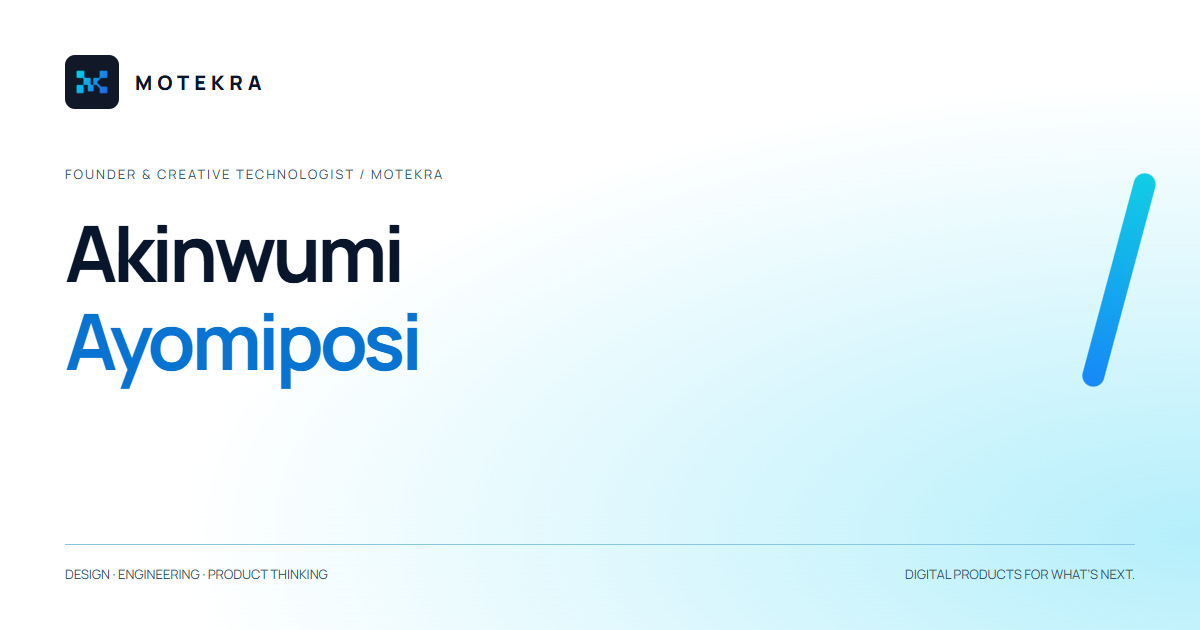
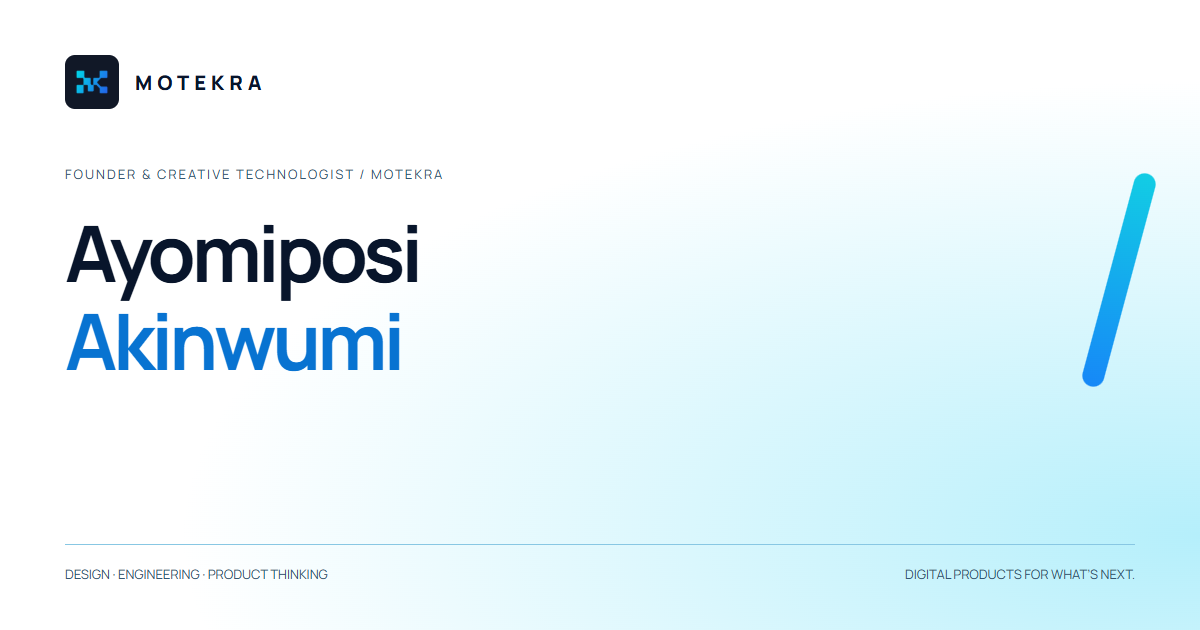
fix(identity): correct founder professional name to Ayomiposi Akinwumi
- Update founder name in team definition, profile content, portrait alt, and about metadata
- Standardize about page founder CTA to Meet Ayomiposi matching first-name usage
- Regenerate social sharing card public/assets/social/founder.png with Ayomiposi Akinwumi
- Update Schema.org Person and ProfilePage structured data expectations
- Update unit and smoke test suites asserting Ayomiposi Akinwumi

Changed region(s): [[0.0925, 0.3619, 0.37, 0.6333]]

diff --git a/tests/smoke/about.spec.ts b/tests/smoke/about.spec.ts
@@ -3,8 +3,8 @@ import AxeBuilder from "@axe-core/playwright";
 import { mkdir, writeFile } from "node:fs/promises";
 const dir=process.env.EVIDENCE_DIR ?? "docs/evidence/phase-06", founder="/team/akinwumi-ayomiposi";
 test.beforeAll(async()=>{await mkdir(dir,{recursive:true});});
-test("server HTML preserves content, pending portrait and publication boundaries",async({request})=>{for(const route of ["/about",founder]) { const response=await request.get(route);expect(response.status()).toBe(200);const html=await response.text();await writeFile(`${dir}/${route==="/about" ? "about":"founder"}-server.html`,html);expect(html).toContain("Akinwumi Ayomiposi");expect(html).toContain("awaiting confirmation");expect(html).not.toContain('src="/images/founder/ayomiposi.webp"');expect(html).not.toContain('href="/work/spotlight-contest"');expect(html).not.toContain('"@type":"Person"');expect(html).not.toContain("akinwumi-ayomiposi.jpeg");}expect((await request.get('/images/founder/ayomiposi.webp')).status()).toBe(404);expect((await request.get('/assets/team/akinwumi-ayomiposi.jpeg')).status()).toBe(404);expect((await request.get('/team/unknown')).status()).toBe(404);});
+test("server HTML preserves content, pending portrait and publication boundaries",async({request})=>{for(const route of ["/about",founder]) { const response=await request.get(route);expect(response.status()).toBe(200);const html=await response.text();await writeFile(`${dir}/${route==="/about" ? "about":"founder"}-server.html`,html);expect(html).toContain("Ayomiposi Akinwumi");expect(html).toContain("awaiting confirmation");expect(html).not.toContain('src="/images/founder/ayomiposi.webp"');expect(html).not.toContain('href="/work/spotlight-contest"');expect(html).not.toContain('"@type":"Person"');expect(html).not.toContain("akinwumi-ayomiposi.jpeg");}expect((await request.get('/images/founder/ayomiposi.webp')).status()).toBe(404);expect((await request.get('/assets/team/akinwumi-ayomiposi.jpeg')).status()).toBe(404);expect((await request.get('/team/unknown')).status()).toBe(404);});
 test("responsive editorial content and zero automated accessibility violations",async({page})=>{await page.emulateMedia({reducedMotion:'reduce'});for(const route of ['/about',founder]) for(const width of [1440,1024,768,390,320]) {await page.setViewportSize({width,height:960});await page.goto(route);await expect(page.locator('h1')).toHaveCount(1);expect(await page.evaluate(()=>document.documentElement.scrollWidth<=innerWidth)).toBe(true);await page.screenshot({path:`${dir}/${route==='/about'?'about':'founder'}-${width}.png`,fullPage:true});if([1440,390].includes(width)){const result=await new AxeBuilder({page}).withTags(['wcag2a','wcag2aa','wcag21a','wcag21aa','wcag22aa']).analyze();await writeFile(`${dir}/axe-${route==='/about'?'about':'founder'}-${width}.json`,JSON.stringify(result,null,2));expect(result.violations).toEqual([]);}}});
-test("native disclosure controls, external profiles and route transitions work with keyboard",async({page})=>{await page.goto(founder);await page.locator('.skill-groups summary').first().focus();await page.keyboard.press('Enter');await expect(page.locator('.skill-groups details').first()).not.toHaveAttribute('open');await page.keyboard.press('Enter');await expect(page.locator('.skill-groups li')).toHaveCount(20);await expect(page.getByRole('link',{name:'GitHub',exact:false}).first()).toHaveAttribute('href','https://github.com/ayjed');await page.goto('/about');const summary=page.locator('.values-stack summary').first();await summary.focus();await page.keyboard.press('Enter');await expect(page.locator('.values-stack details').first()).not.toHaveAttribute('open');await page.getByRole('link',{name:'Meet Akinwumi'}).click();await expect(page).toHaveURL(new RegExp(founder));await expect(page.locator('main')).toBeFocused();});
+test("native disclosure controls, external profiles and route transitions work with keyboard",async({page})=>{await page.goto(founder);await page.locator('.skill-groups summary').first().focus();await page.keyboard.press('Enter');await expect(page.locator('.skill-groups details').first()).not.toHaveAttribute('open');await page.keyboard.press('Enter');await expect(page.locator('.skill-groups li')).toHaveCount(20);await expect(page.getByRole('link',{name:'GitHub',exact:false}).first()).toHaveAttribute('href','https://github.com/ayjed');await page.goto('/about');const summary=page.locator('.values-stack summary').first();await summary.focus();await page.keyboard.press('Enter');await expect(page.locator('.values-stack details').first()).not.toHaveAttribute('open');await page.getByRole('link',{name:'Meet Ayomiposi'}).click();await expect(page).toHaveURL(new RegExp(founder));await expect(page.locator('main')).toBeFocused();});
 test("motion settles and live reduced-motion restores readable content",async({page})=>{const errors:string[]=[];page.on('pageerror',error=>errors.push(error.message));await page.goto('/about');await expect.poll(()=>page.locator('[data-editorial-line]').evaluateAll(nodes=>nodes.every(node=>Math.abs(new DOMMatrix(getComputedStyle(node).transform).m42)<1))).toBe(true);await page.locator('.editorial-founder').scrollIntoViewIfNeeded();await page.emulateMedia({reducedMotion:'reduce'});await expect.poll(()=>page.locator('[data-portrait-plane]').evaluate(node=>getComputedStyle(node).transform)).toBe('none');await expect(page.locator('canvas')).toHaveCount(0);expect(errors).toEqual([]);});
 test("no JavaScript retains biography skills values and navigation",async({browser})=>{const context=await browser.newContext({javaScriptEnabled:false});const page=await context.newPage();await page.goto('http://127.0.0.1:3000'+founder);await expect(page.locator('.skill-groups li')).toHaveCount(20);await expect(page.locator('.editorial-bio')).toContainText('software developer');expect(await page.locator('.bio-word').first().evaluate(node=>parseFloat(getComputedStyle(node).marginInlineEnd))).toBeGreaterThan(0);await expect(page.locator('.portrait-pending')).toBeVisible();await page.goto('http://127.0.0.1:3000/about');await expect(page.locator('.values-stack details')).toHaveCount(5);await expect(page.locator('.values-stack p').first()).toBeVisible();await page.screenshot({path:`${dir}/about-no-js.png`,fullPage:true});await context.close();});

diff --git a/tests/unit/editorial-seo.test.ts b/tests/unit/editorial-seo.test.ts
@@ -16,7 +16,7 @@ const fixture:Article={slug:'synthetic-template-fixture',title:'Synthetic articl
 afterEach(()=>vi.unstubAllEnvs());
 it('keeps the real article collection empty until actual writing and review',()=>{expect(articles).toEqual([]);expect(publishableArticles()).toEqual([]);expect(publishableArticles([fixture])).toHaveLength(1);for(const change of [{publication:'draft' as const},{review:null},{review:{...fixture.review!,approved:false}},{author:{...fixture.author,verified:false}},{author:{...fixture.author,personSlug:'akinwumi-ayomiposi'}},{sections:[]},{publishedAt:'2099-01-01'},{modifiedAt:'2020-01-01'}])expect(publishableArticles([{...fixture,...change}])).toEqual([]);expect(validEditorialDate('2026-02-31')).toBe(false);});
 it('uses approval-aware relation links and never promotes candidate cases',()=>{expect(articleRelations({...fixture,projectSlugs:['spotlight-contest'],serviceSlugs:['web-development']})).toEqual({services:[],projects:[]});});
-it('withholds all factual schema until an origin and indexability are configured',()=>{expect(organizationSchema()).toBeNull();expect(articleSchema(fixture)).toBeNull();expect(aboutPersonSchema()).toBeNull();expect(founderStructuredData(team[0]!)).toBeNull();vi.stubEnv('SITE_URL','https://example.test');vi.stubEnv('SITE_INDEXABLE','true');expect(organizationSchema()?.name).toBe('MOTEKRA');expect(organizationSchema()).not.toHaveProperty('address');expect(organizationSchema()).not.toHaveProperty('email');expect(websiteSchema()?.['@type']).toBe('WebSite');expect(founderStructuredData(team[0]!)?.['@type']).toBe('ProfilePage');expect(founderStructuredData(team[0]!)?.mainEntity?.['@type']).toBe('Person');expect(aboutPersonSchema()?.['@type']).toBe('Person');expect(aboutPersonSchema()?.name).toBe('Akinwumi Ayomiposi');const draftProfileFixture={...founderDetails[team[0]!.slug]!,detailsPublication:'draft' as const};expect(founderStructuredData(team[0]!,draftProfileFixture)).toBeNull();expect(articleSchema(fixture)?.author.name).toBe(fixture.author.name);expect(articleSchema({...fixture,review:null})).toBeNull();expect(breadcrumbSchema([{name:'Home',path:'/'},{name:'Insights',path:'/insights'}])?.itemListElement[1]?.position).toBe(2);});
+it('withholds all factual schema until an origin and indexability are configured',()=>{expect(organizationSchema()).toBeNull();expect(articleSchema(fixture)).toBeNull();expect(aboutPersonSchema()).toBeNull();expect(founderStructuredData(team[0]!)).toBeNull();vi.stubEnv('SITE_URL','https://example.test');vi.stubEnv('SITE_INDEXABLE','true');expect(organizationSchema()?.name).toBe('MOTEKRA');expect(organizationSchema()).not.toHaveProperty('address');expect(organizationSchema()).not.toHaveProperty('email');expect(websiteSchema()?.['@type']).toBe('WebSite');expect(founderStructuredData(team[0]!)?.['@type']).toBe('ProfilePage');expect(founderStructuredData(team[0]!)?.mainEntity?.['@type']).toBe('Person');expect(aboutPersonSchema()?.['@type']).toBe('Person');expect(aboutPersonSchema()?.name).toBe('Ayomiposi Akinwumi');const draftProfileFixture={...founderDetails[team[0]!.slug]!,detailsPublication:'draft' as const};expect(founderStructuredData(team[0]!,draftProfileFixture)).toBeNull();expect(articleSchema(fixture)?.author.name).toBe(fixture.author.name);expect(articleSchema({...fixture,review:null})).toBeNull();expect(breadcrumbSchema([{name:'Home',path:'/'},{name:'Insights',path:'/insights'}])?.itemListElement[1]?.position).toBe(2);});
 it('serializes script-breaking content safely without changing JSON values',()=>{const value={name:'</script><script>alert(1)</script>\u2028'};const serialized=serializeJsonLd(value);expect(serialized).not.toContain('<');expect(JSON.parse(serialized)).toEqual(value);});
 it('does not infer company authorship from project ownership',()=>{vi.stubEnv('SITE_URL','https://example.test');vi.stubEnv('SITE_INDEXABLE','true');const project:Project={slug:'fixture-only',title:'Synthetic case fixture',publication:'approved',status:'concept',ownership:'motekra',role:'Confirmed test role',displayPermission:true,summary:'Synthetic case for unit tests only.',resultsVerified:[]};const schema=projectSchema(project);expect(schema?.['@type']).toBe('CreativeWork');expect(schema).not.toHaveProperty('creator');expect(schema?.contributor).toEqual([]);expect(projectSchema({...project,displayPermission:false})).toBeNull();});
 it('produces absolute canonical, Open Graph and Twitter metadata in configured mode',()=>{vi.stubEnv('SITE_URL','https://example.test');vi.stubEnv('SITE_INDEXABLE','true');const metadata=pageMetadata('Work','A specific description','/work');expect(metadata.alternates?.canonical).toBe('https://example.test/work');expect(metadata.twitter).toMatchObject({card:'summary_large_image'});expect(metadata.openGraph).toMatchObject({url:'https://example.test/work',images:[{url:'https://example.test/assets/social/work.png',width:1200,height:630,alt:'MOTEKRA - Work'}]});expect(articleMetadata(fixture).openGraph).toMatchObject({type:'article',publishedTime:fixture.publishedAt});expect(socialImageFor('/services/web-development')).toBe('/assets/social/services-web-development.png');expect(robots().rules).toMatchObject({allow:'/',disallow:['/api/','/motion-lab','/work/evidence/']});});

diff --git a/tests/unit/founder.test.ts b/tests/unit/founder.test.ts
@@ -4,6 +4,6 @@ import { team } from "@/content/team";
 import { companyProjects, founderProjects, founderStructuredData, founderMetadata } from "@/lib/data/founder";
 import type { Project } from "@/content/models";
 afterEach(()=>vi.unstubAllEnvs());
-it("keeps authentic portrait and company values verified",()=>{ const details=founderDetails[team[0]!.slug]!; expect(details.portrait).toEqual({ src: "/assets/team/ayomiposi.webp", width: 834, height: 1024, alt: "Akinwumi Ayomiposi — Software Developer & Creative Technologist" });expect(details.plannedPortraitSrc).toBe("/assets/team/ayomiposi.webp");expect(details.experience.every(item=>item.period===null)).toBe(true);expect(companyDirection.confirmedValues).toEqual([]);expect(companyDirection.proposedValues).toHaveLength(5);expect(founderSkillGroups.flatMap(group=>[...group.skills])).toEqual(details.skills);expect(details.skills).toHaveLength(15); });
-it("emits ProfilePage schema and allows indexing when approved",()=>{vi.stubEnv("SITE_URL","https://example.test");vi.stubEnv("SITE_INDEXABLE","true");const schema=founderStructuredData(team[0]!);expect(schema).not.toBeNull();expect(schema?.["@type"]).toBe("ProfilePage");expect(schema?.["@id"]).toBe("https://example.test/team/akinwumi-ayomiposi#profilepage");expect(schema?.mainEntity?.["@type"]).toBe("Person");expect(schema?.mainEntity?.["@id"]).toBe("https://example.test/about#person");expect(schema?.mainEntity?.name).toBe("Akinwumi Ayomiposi");expect(schema?.mainEntity?.jobTitle).toBe("Software Developer & Creative Technologist");expect(schema?.mainEntity?.url).toBe("https://example.test/team/akinwumi-ayomiposi");expect(schema?.mainEntity?.knowsAbout).toHaveLength(15);expect(founderMetadata(team[0]!).robots).not.toEqual({ index: false, follow: false });});
+it("keeps authentic portrait and company values verified",()=>{ const details=founderDetails[team[0]!.slug]!; expect(details.portrait).toEqual({ src: "/assets/team/ayomiposi.webp", width: 834, height: 1024, alt: "Ayomiposi Akinwumi - Software Developer & Creative Technologist" });expect(details.plannedPortraitSrc).toBe("/assets/team/ayomiposi.webp");expect(details.experience.every(item=>item.period===null)).toBe(true);expect(companyDirection.confirmedValues).toEqual([]);expect(companyDirection.proposedValues).toHaveLength(5);expect(founderSkillGroups.flatMap(group=>[...group.skills])).toEqual(details.skills);expect(details.skills).toHaveLength(15); });
+it("emits ProfilePage schema and allows indexing when approved",()=>{vi.stubEnv("SITE_URL","https://example.test");vi.stubEnv("SITE_INDEXABLE","true");const schema=founderStructuredData(team[0]!);expect(schema).not.toBeNull();expect(schema?.["@type"]).toBe("ProfilePage");expect(schema?.["@id"]).toBe("https://example.test/team/akinwumi-ayomiposi#profilepage");expect(schema?.mainEntity?.["@type"]).toBe("Person");expect(schema?.mainEntity?.["@id"]).toBe("https://example.test/about#person");expect(schema?.mainEntity?.name).toBe("Ayomiposi Akinwumi");expect(schema?.mainEntity?.jobTitle).toBe("Software Developer & Creative Technologist");expect(schema?.mainEntity?.url).toBe("https://example.test/team/akinwumi-ayomiposi");expect(schema?.mainEntity?.knowsAbout).toHaveLength(15);expect(founderMetadata(team[0]!).robots).not.toEqual({ index: false, follow: false });});
 it("requires precise approved personal contribution separately from company delivery",()=>{const project:Project={slug:"test-only",title:"Test fixture",publication:"approved",status:"completed",ownership:"motekra",role:"Team contribution",displayPermission:true,summary:"Test fixture only",resultsVerified:[]};expect(companyProjects([project])).toHaveLength(1);expect(founderProjects(team[0]!.slug,[project])).toEqual([]);const credited={...project,contributions:[{personSlug:team[0]!.slug,role:"Interface design",approved:true}]};expect(founderProjects(team[0]!.slug,[credited])[0]?.role).toBe("Interface design");expect(founderProjects(team[0]!.slug,[{...credited,displayPermission:false}])).toEqual([]);expect(founderProjects(team[0]!.slug,[{...credited,contributions:[{...credited.contributions[0]!,approved:false}]}])).toEqual([]);});

diff --git a/tests/unit/seo-schema.test.ts b/tests/unit/seo-schema.test.ts
@@ -471,7 +471,7 @@ describe("aboutPersonSchema() - Founder Identity Disambiguation on About Page", 
     expect(schema?.["@context"]).toBe("https://schema.org");
     expect(schema?.["@type"]).toBe("Person");
     expect(schema?.["@id"]).toBe(`${configuredOrigin}/about#person`);
-    expect(schema?.name).toBe("Akinwumi Ayomiposi");
+    expect(schema?.name).toBe("Ayomiposi Akinwumi");
     expect(schema?.jobTitle).toBe("Software Developer & Creative Technologist");
     expect(schema?.description).toBe("Software Developer & Creative Technologist at MOTEKRA.");
     expect(schema?.url).toBe(`${configuredOrigin}/team/akinwumi-ayomiposi`);
@@ -520,7 +520,7 @@ describe("aboutPersonSchema() - Founder Identity Disambiguation on About Page", 
     const markup = renderToStaticMarkup(createElement(JsonLd, { data: aboutPersonSchema() }));
     expect(markup).toContain('<script type="application/ld+json">');
     expect(markup).toContain('"@type":"Person"');
-    expect(markup).toContain('"name":"Akinwumi Ayomiposi"');
+    expect(markup).toContain('"name":"Ayomiposi Akinwumi"');
     expect(markup).toContain('"jobTitle":"Software Developer & Creative Technologist"');
     expect(markup).toContain('"url":"https://www.motekra.com/team/akinwumi-ayomiposi"');
     expect(markup).toContain('"https://www.linkedin.com/in/akinwumi-ayomiposi/"');
@@ -535,7 +535,7 @@ describe("aboutPersonSchema() - Founder Identity Disambiguation on About Page", 
     const markup = renderToStaticMarkup(createElement(AboutPage));
     expect(markup).toContain('<script type="application/ld+json">');
     expect(markup).toContain('"@type":"Person"');
-    expect(markup).toContain('"name":"Akinwumi Ayomiposi"');
+    expect(markup).toContain('"name":"Ayomiposi Akinwumi"');
     expect(markup).toContain('"https://www.linkedin.com/in/akinwumi-ayomiposi/"');
   }, 15000);
 
@@ -582,7 +582,7 @@ describe("founderStructuredData() - Founder ProfilePage & Person Structured Data
     const person = schema?.mainEntity;
     expect(person?.["@type"]).toBe("Person");
     expect(person?.["@id"]).toBe(`${configuredOrigin}/about#person`);
-    expect(person?.name).toBe("Akinwumi Ayomiposi");
+    expect(person?.name).toBe("Ayomiposi Akinwumi");
     expect(person?.jobTitle).toBe("Software Developer & Creative Technologist");
     expect(person?.description).toBe("Software Developer & Creative Technologist at MOTEKRA.");
     expect(person?.url).toBe(`${configuredOrigin}/team/akinwumi-ayomiposi`);

diff --git a/tests/unit/seo.test.ts b/tests/unit/seo.test.ts
@@ -72,10 +72,10 @@ describe("SEO Title Standardization (Issue 03)", () => {
 
     const founder = team.find((p) => p.slug === "akinwumi-ayomiposi")!;
     const founderMeta = founderMetadata(founder);
-    expect(founderMeta.title).toBe("Akinwumi Ayomiposi - Software Developer & Creative Technologist");
-    expect(formatFullTitle(founderMeta.title as string)).toBe("Akinwumi Ayomiposi - Software Developer & Creative Technologist - MOTEKRA");
-    expect(founderMeta.openGraph?.title).toBe("Akinwumi Ayomiposi - Software Developer & Creative Technologist - MOTEKRA");
-    expect(founderMeta.twitter?.title).toBe("Akinwumi Ayomiposi - Software Developer & Creative Technologist - MOTEKRA");
+    expect(founderMeta.title).toBe("Ayomiposi Akinwumi - Software Developer & Creative Technologist");
+    expect(formatFullTitle(founderMeta.title as string)).toBe("Ayomiposi Akinwumi - Software Developer & Creative Technologist - MOTEKRA");
+    expect(founderMeta.openGraph?.title).toBe("Ayomiposi Akinwumi - Software Developer & Creative Technologist - MOTEKRA");
+    expect(founderMeta.twitter?.title).toBe("Ayomiposi Akinwumi - Software Developer & Creative Technologist - MOTEKRA");
   });
 
   it("contains no vertical bars or em dashes in formatted titles", () => {
@@ -84,7 +84,7 @@ describe("SEO Title Standardization (Issue 03)", () => {
       formatFullTitle("About the Studio"),
       formatFullTitle("Our Work & Design Concepts"),
       formatFullTitle("Contact Us"),
-      formatFullTitle("Akinwumi Ayomiposi - Software Developer & Creative Technologist"),
+      formatFullTitle("Ayomiposi Akinwumi - Software Developer & Creative Technologist"),
     ];
 
     for (const title of titles) {

diff --git a/tests/smoke/home.spec.ts b/tests/smoke/home.spec.ts
@@ -12,7 +12,7 @@ test("Home HTML contains the eight-section storyboard and honest content", async
   const html = await response.text();
   await writeFile(`${dir}/home-server.html`, html);
   expect((html.match(/data-home-section=/g) ?? [])).toHaveLength(8);
-  for (const text of ["Digital Products for what’s Next.", "We design and build high-performance", "Real Projects.", "Bring to Life.", "Discover", "Define", "Design", "Develop", "Launch", "Akinwumi Ayomiposi", "Founder &amp;", "Experiments", "Have Something", "Concept", "In Development"]) expect(html).toContain(text);
+  for (const text of ["Digital Products for what’s Next.", "We design and build high-performance", "Real Projects.", "Bring to Life.", "Discover", "Define", "Design", "Develop", "Launch", "Ayomiposi Akinwumi", "Founder &amp;", "Experiments", "Have Something", "Concept", "In Development"]) expect(html).toContain(text);
   for (const unsupported of ["hello@motekra.com", "6+ Projects", "3+ Years", "testimonial", 'href="/work/spotlight-contest"']) expect(html).not.toContain(unsupported);
   const brand = Buffer.from(await (await request.get("/assets/brand/motekra-mark.png")).body());
   expect(createHash("sha256").update(brand).digest("hex")).toBe(createHash("sha256").update(await readFile("MOTEKRA_X_Profile_400x400.png")).digest("hex"));

diff --git a/src/content/team/profile.ts b/src/content/team/profile.ts
@@ -17,11 +17,11 @@ export const founderDetails: Readonly<Record<string, FounderProfileContent>> = {
       src: "/assets/team/ayomiposi.webp",
       width: 834,
       height: 1024,
-      alt: "Akinwumi Ayomiposi — Software Developer & Creative Technologist",
+      alt: "Ayomiposi Akinwumi - Software Developer & Creative Technologist",
     },
     plannedPortraitSrc: "/assets/team/ayomiposi.webp",
     biography: [
-      "Akinwumi Ayomiposi is a Software Developer & Creative Technologist specializing in web and mobile application development, backend engineering, and UI/UX design.",
+      "Ayomiposi Akinwumi is a Software Developer & Creative Technologist specializing in web and mobile application development, backend engineering, and UI/UX design.",
       "His work combines software engineering, user-centered design, and creative problem-solving to build functional, intuitive, and reliable digital products.",
       "Through MOTEKRA, he brings together technical development and creative thinking to create digital experiences that address real-world challenges.",
     ],

diff --git a/src/content/team/index.ts b/src/content/team/index.ts
@@ -1,7 +1,7 @@
 import type { Founder } from "../models";
 
 // Owner-approved founder identity, portrait, and professional profile.
-export const team: readonly Founder[] = [{ slug: "akinwumi-ayomiposi", name: "Akinwumi Ayomiposi", title: "Software Developer & Creative Technologist", bio: "Software Developer & Creative Technologist at MOTEKRA.", publication: "approved" }];
+export const team: readonly Founder[] = [{ slug: "akinwumi-ayomiposi", name: "Ayomiposi Akinwumi", title: "Software Developer & Creative Technologist", bio: "Software Developer & Creative Technologist at MOTEKRA.", publication: "approved" }];
 
 export const founderProfiles = [
   ["LinkedIn", "https://www.linkedin.com/in/akinwumi-ayomiposi/"],

diff --git a/src/app/about/page.tsx b/src/app/about/page.tsx
@@ -1,3 +1,3 @@
 import { pageMetadata } from "@/lib/seo/site";
-export const metadata = pageMetadata("About the Studio", "Meet MOTEKRA: software engineering, thoughtful design and product strategy, with a personal perspective from founder Akinwumi Ayomiposi.", "/about");
+export const metadata = pageMetadata("About the Studio", "Meet MOTEKRA: software engineering, thoughtful design and product strategy, with a personal perspective from founder Ayomiposi Akinwumi.", "/about");
 export { default } from "@/components/about/about-page";

diff --git a/src/components/about/about-page.tsx b/src/components/about/about-page.tsx
@@ -64,7 +64,7 @@ export default function AboutPage() {
             <p className="editorial-role" data-founder-role>{person.title} · MOTEKRA</p>
             <p className="lead" data-founder-bio>{founderDetails[person.slug]!.biography[0]}</p>
             <div data-founder-cta>
-              <ButtonLink href={`/team/${person.slug}`}>Meet Akinwumi</ButtonLink>
+              <ButtonLink href={`/team/${person.slug}`}>Meet Ayomiposi</ButtonLink>
             </div>
             <SocialLinks />
           </div>
